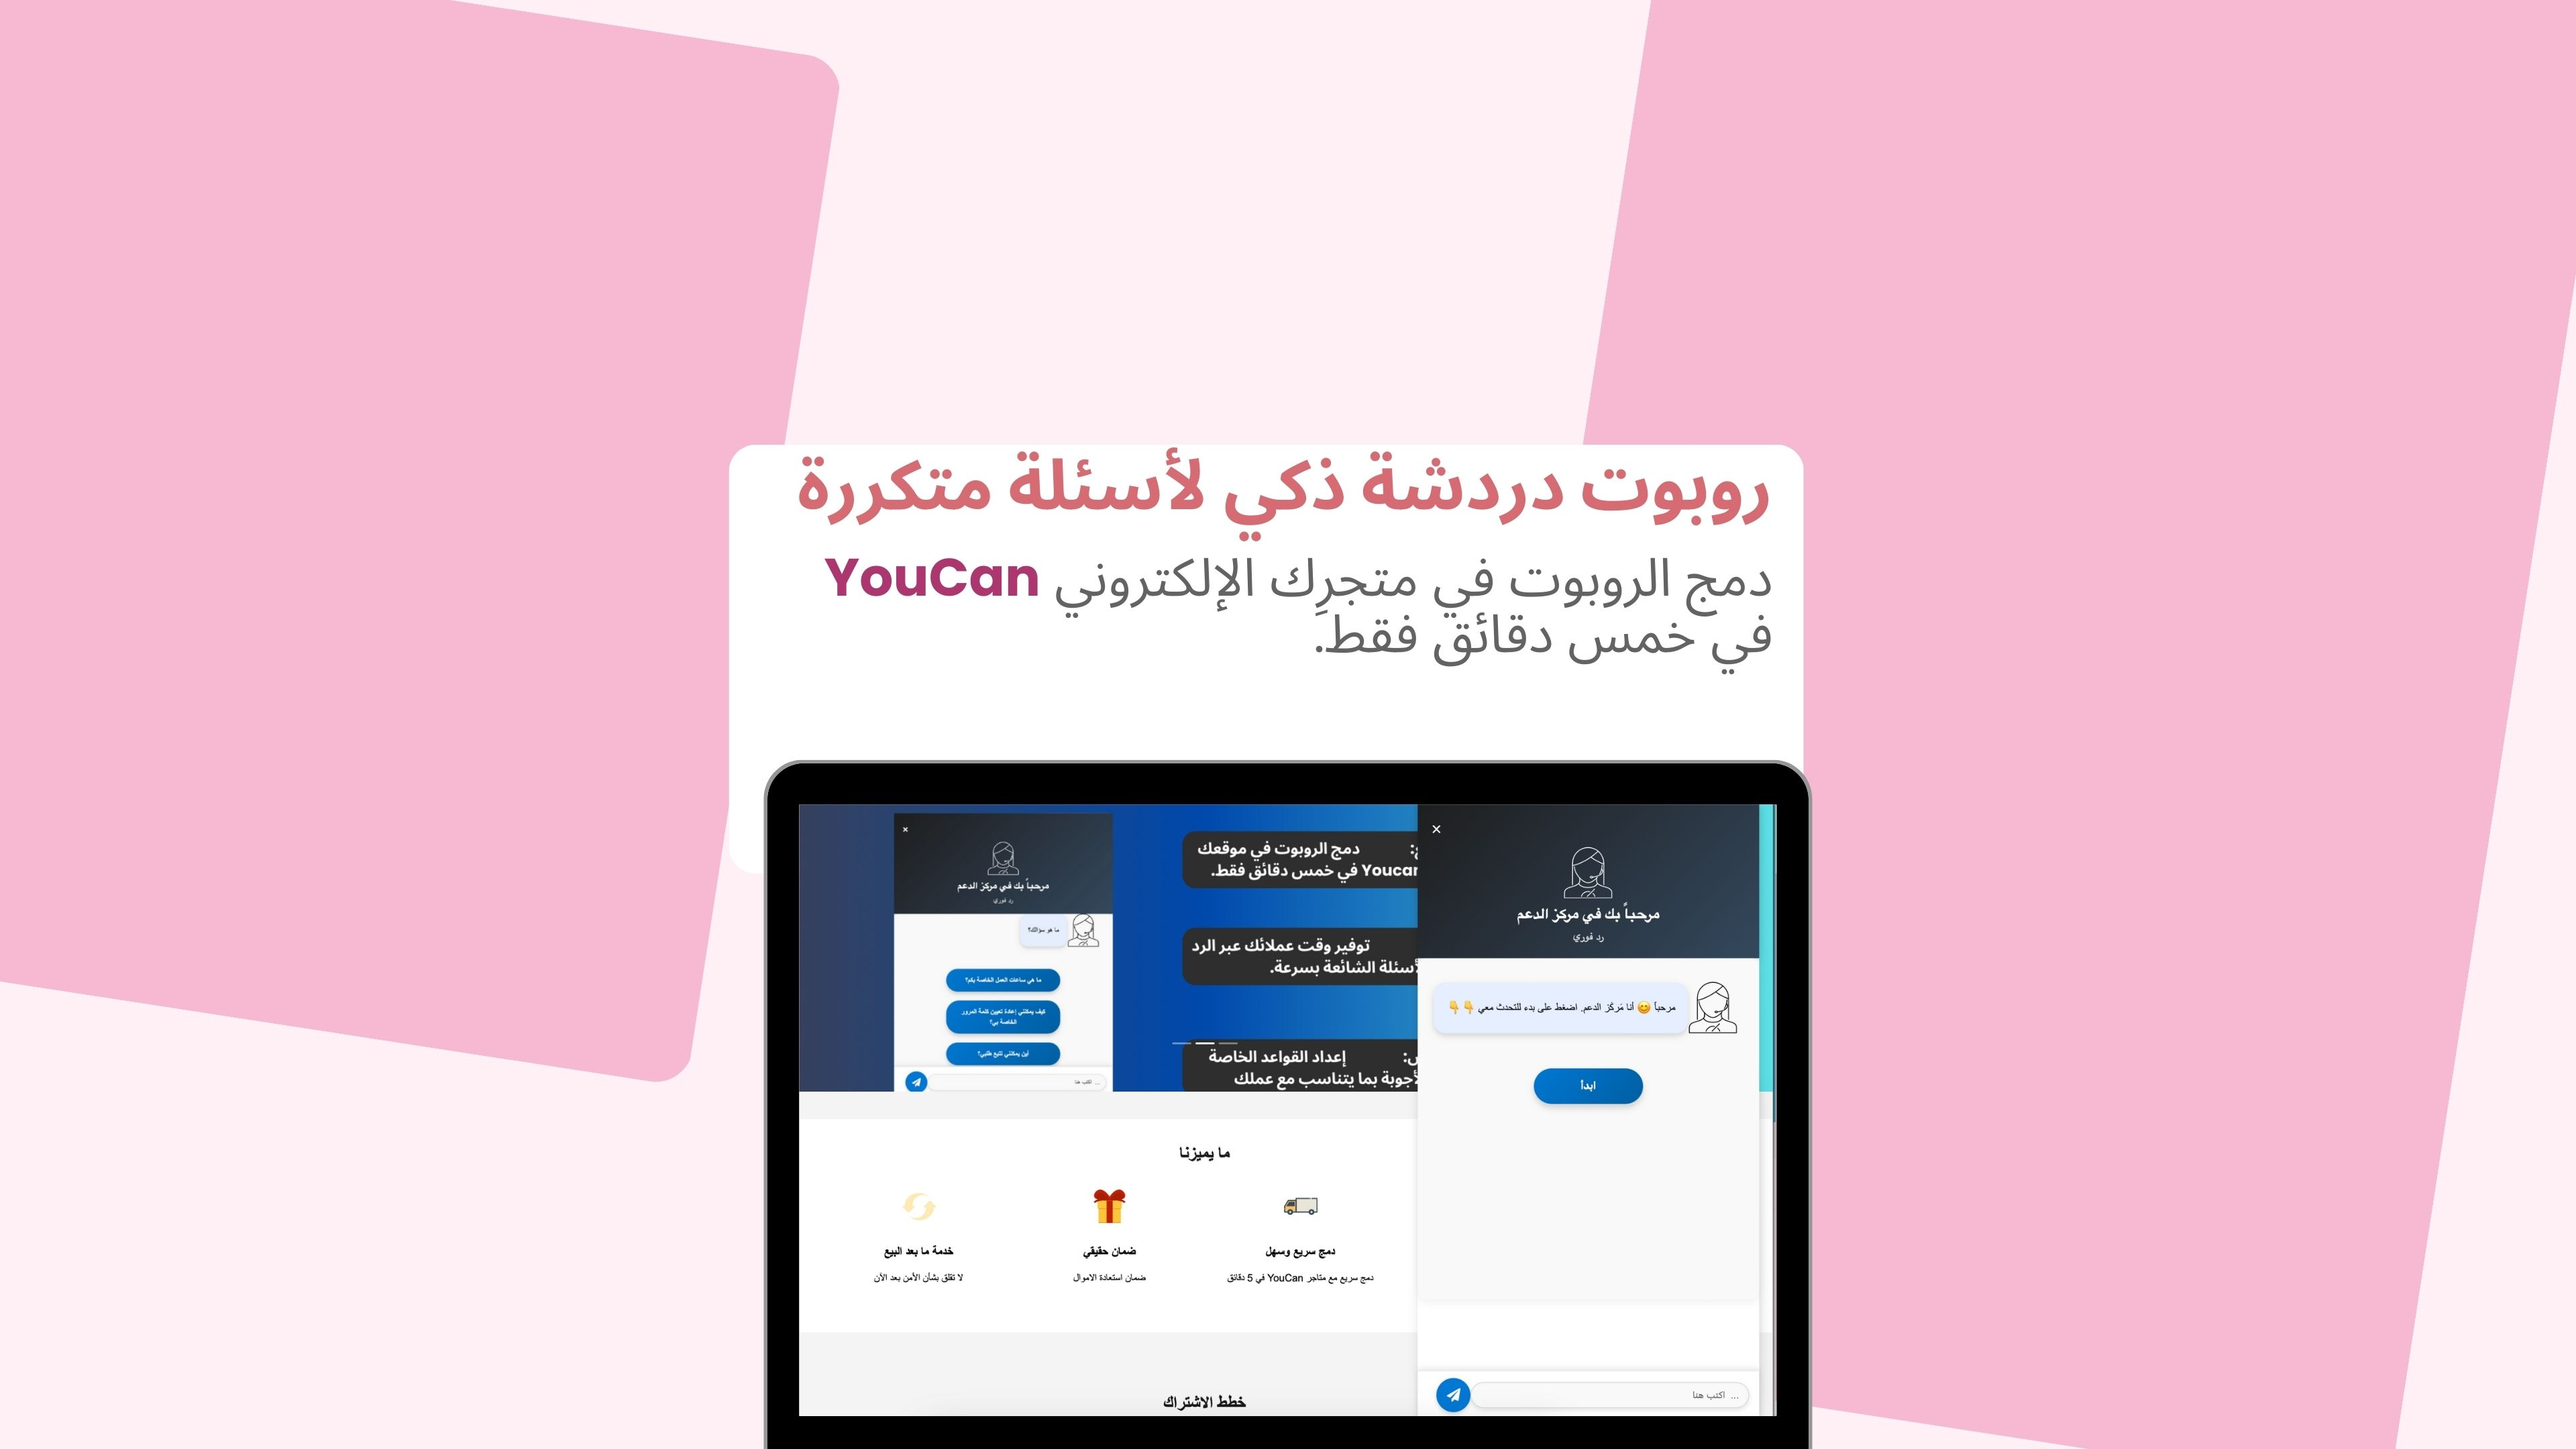
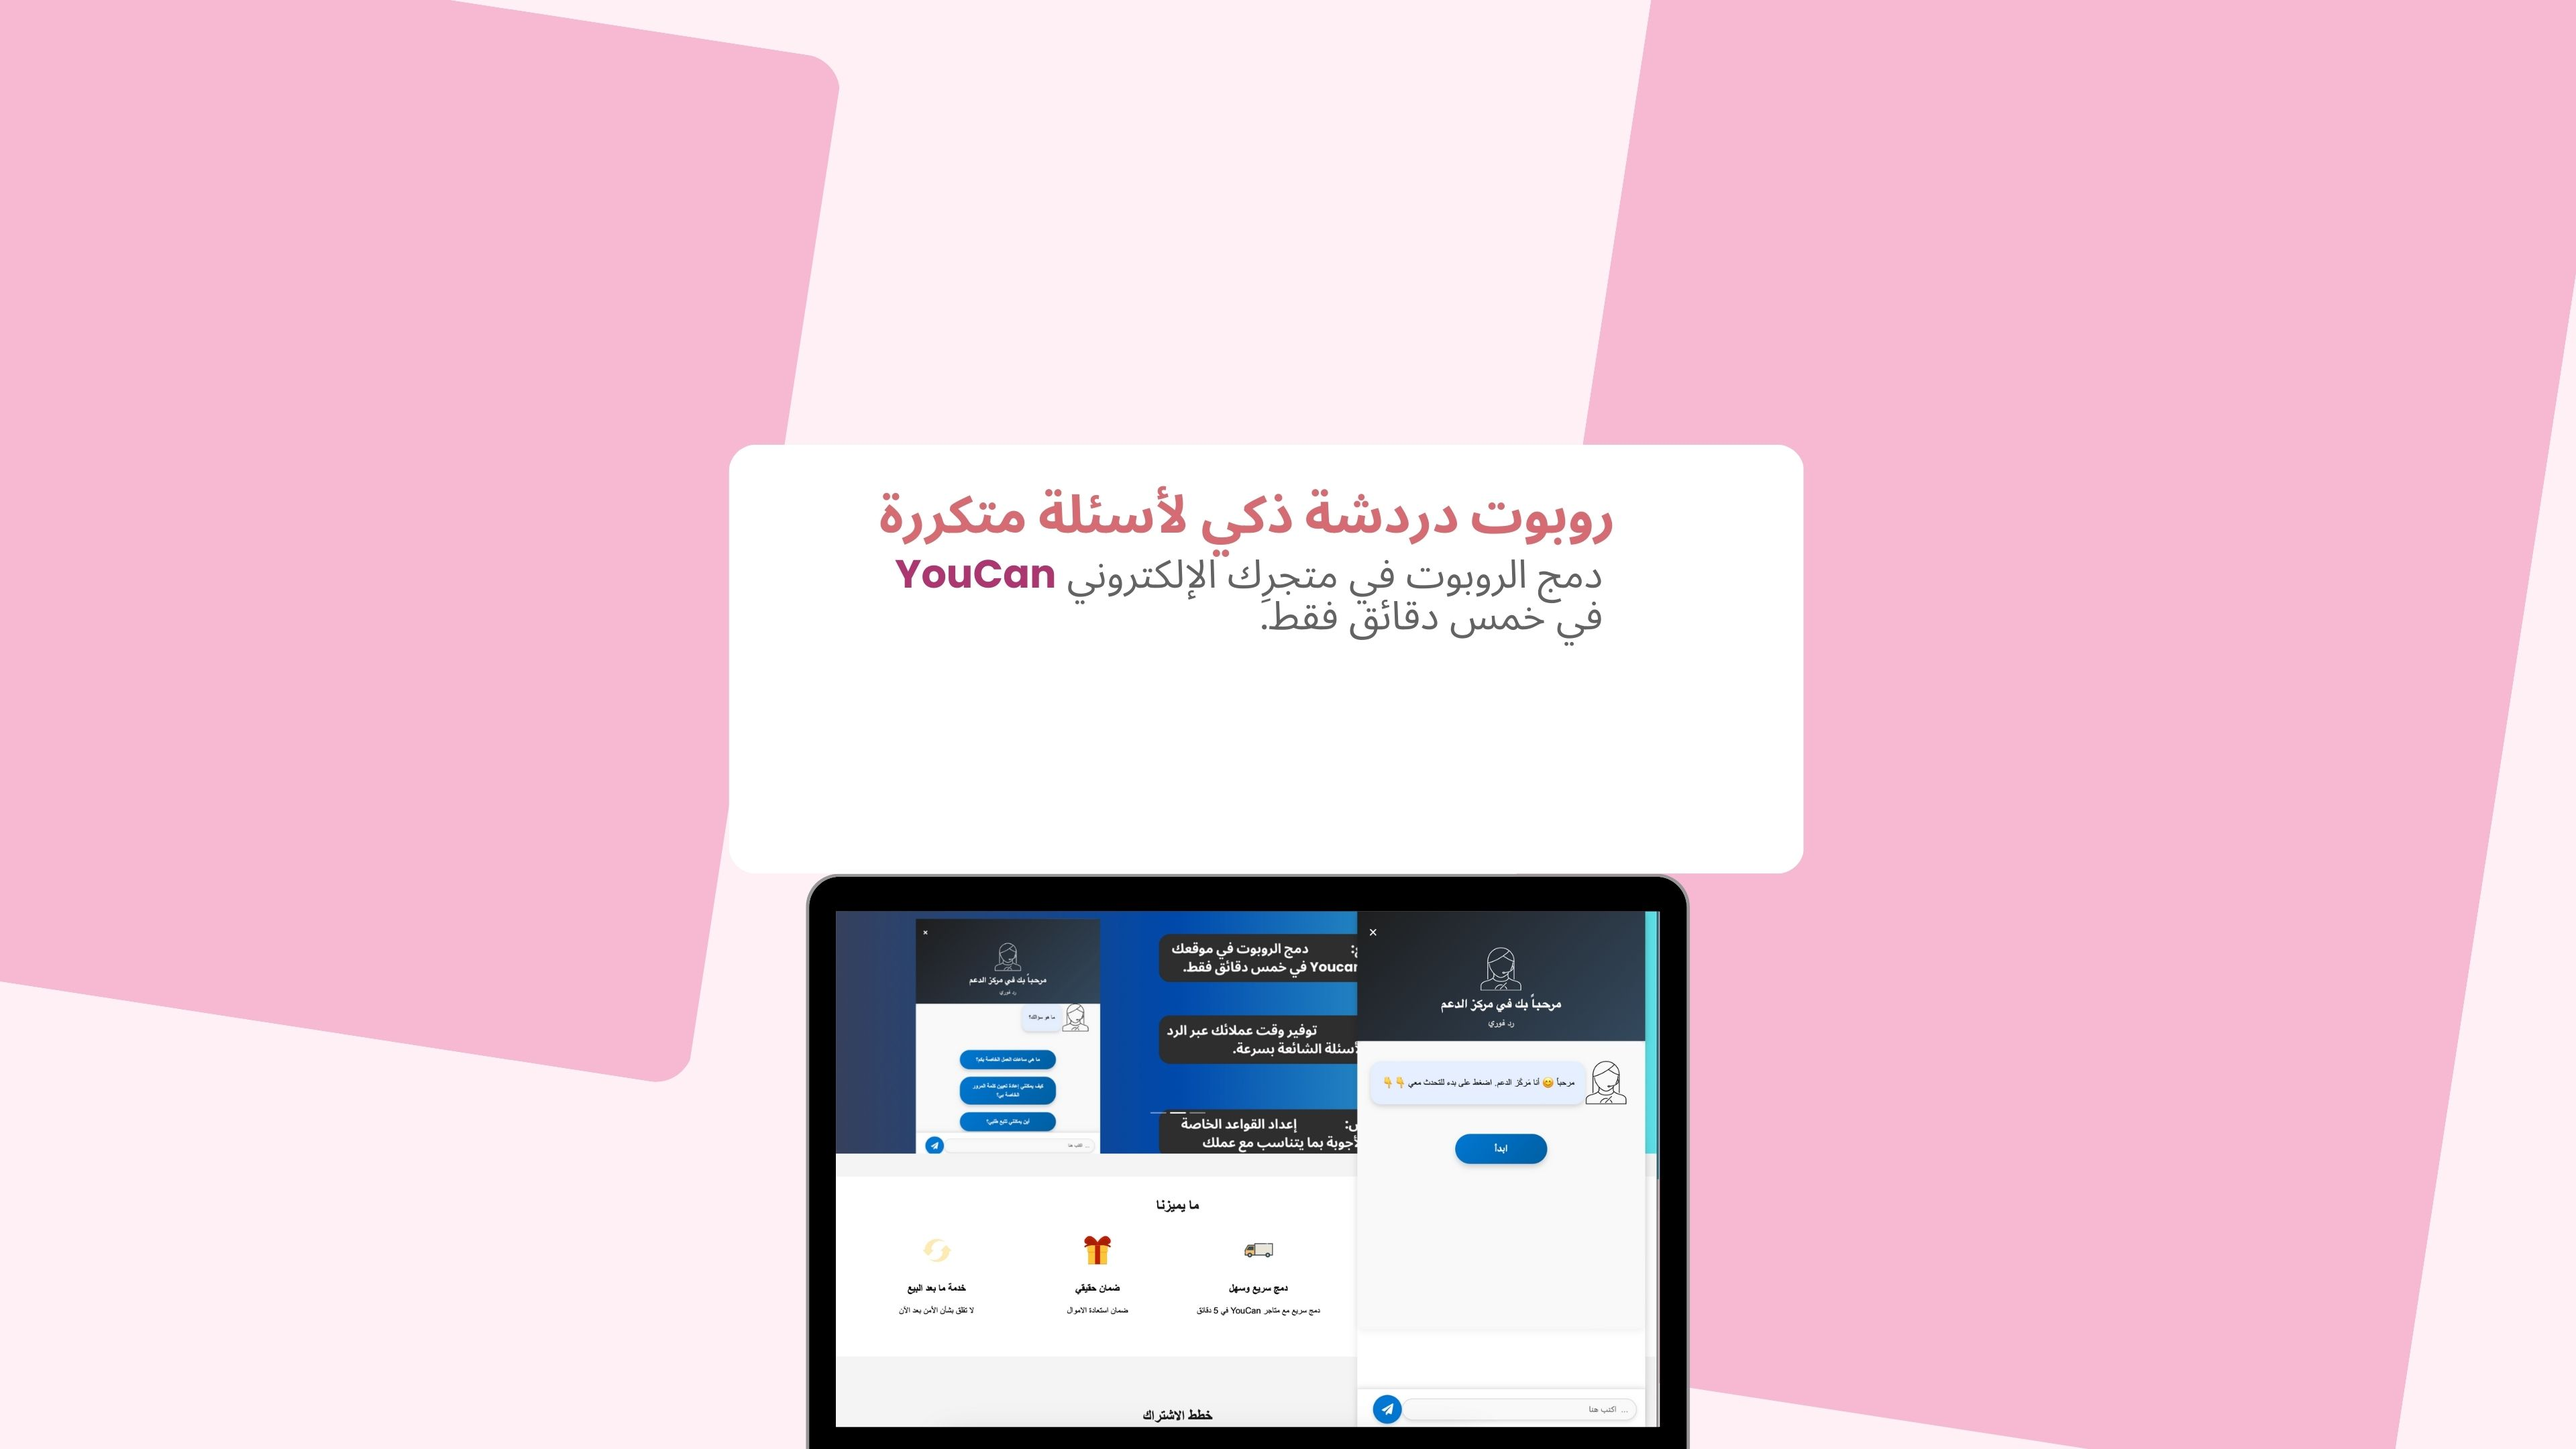
go now

Changed region(s): [[0.2812, 0.5273, 0.7188, 1.0], [0.3125, 0.3102, 0.6875, 0.4653], [0.4688, 0.8375, 0.5, 0.8995]]

diff --git a/index.html b/index.html
@@ -10,74 +10,13 @@
   <meta property="og:title" content="Youcanbot - Your Customizable FAQ Chatbot For Youcan">
   <meta property="og:description" content="Boost your customer experience with a customizable FAQ chatbot. Start with a free trial, then subscribe for only 30 DH/month.">
   <meta property="og:image" content="images/youcanbot-icon.png">
-  <meta property="og:url" content="https://www.youcanbot.com">
+  <meta property="og:url" content="https://www.youcanbot.missingapps.com">
   <title>Youcanbot - FAQ Chatbot for Youcan Stores</title>
   <link rel="stylesheet" href="styles.css">
   <link rel="icon" href="./images/youcanbot-icon.png" type="image/x-icon">
   <link href="https://fonts.googleapis.com/css2?family=Poppins:wght@400;600&display=swap" rel="stylesheet">
   <link href="https://fonts.googleapis.com/css2?family=Poppins:wght@400;600&display=swap" rel="stylesheet">
   <link href="https://cdnjs.cloudflare.com/ajax/libs/font-awesome/6.0.0/css/all.min.css" rel="stylesheet">
-
-  <script type="module">
-    import ChatbotLibrary from 'https://unpkg.com/youcan-chatbot-test@1.1.1/dist/chatbot-library.js';
-
-    // Initialize the chatbot
-    ChatbotLibrary.initializeYoucanChatbot({
-      templateName: 'FAQYoucanChatbot',
-      email: 'your-email@example.com',
-      templateProps : {
-          initialMessageText: "مرحباً 😊 أنا مَركَز الدعم. اضغط على بدء للتحدث معي 👇👇",
-          botName: "مساعد الدعم",
-          placeholderText: "...  اكتب هنا",
-          headerText: "مرحباً بك في مركز الدعم",
-          title:"رد فوري",
-          faqData: [
-              {
-                  question: "؟Youcanbot ما هو",
-                  answer: "يوكانبوت هو روبوت دردشة مخصص لأسئلة متكررة يمكن دمجه بسهولة في متاجر يوكان الإلكترونية. يساعد عملائك على الحصول على إجابات سريعة لأسئلتهم دون الحاجة للتفاعل مع موظفي الدعم."
-              },
-              {
-                  question: "؟Youcanbot كيف يمكنني الاشتراك",
-                  answer: "يمكنك الاشتراك في يوكانبوت من خلال اختيار خطة الاشتراك الشهرية أو السنوية، ومن ثم إتمام عملية الدفع عبر PayPal. بعد ذلك، ستتلقى رمز وصول سري عبر البريد الإلكتروني."
-              },
-              {
-                  question: "؟Youcanbot هل يمكنني تخصيص الأسئلة والأجوبة",
-                  answer: "نعم، يمكنك تخصيص الأسئلة والأجوبة في يوكانبوت لتتناسب مع احتياجات متجرك وطلبات عملائك."
-              },
-              {
-                  question: "؟Youcanbot هل هناك فترة تجريبية مجانية",
-                  answer: "نعم، نحن نقدم فترة تجريبية مجانية لمدة 3 أيام لتجربة جميع الميزات قبل الاشتراك."
-              },
-              {
-                  question: "؟Youcanbot كيف يمكنني دمج يوكانبوت في متجري",
-                  answer: "يمكنك دمج يوكانبوت في متجرك عبر إضافة بضع أسطر من الكود إلى موقعك الإلكتروني. ونحن نقدم تعليمات مفصلة وفيديو توجيهي لشرح كيفية القيام بذلك."
-              },
-              {
-                  question: "؟Youcanbot هل أحتاج إلى خبرة تقنية لدمج يوكانبوت في متجري",
-                  answer: "لا، يوكانبوت سهل الاستخدام ويمكن دمجه في متجرك دون الحاجة لأي خبرة تقنية."
-              },
-              {
-                  question: "؟Youcanbot كيف يمكنني التواصل مع الدعم الفني",
-                  answer: "يمكنك التواصل مع فريق الدعم عبر البريد الإلكتروني أو من خلال منصة الدردشة المباشرة على موقعنا لمساعدتك في أي مشاكل قد تواجهك."
-              },
-              {
-                  question: "؟Youcanbot ماذا يحدث بعد انتهاء الاشتراك",
-                  answer: "قبل انتهاء اشتراكك بـ 5 أيام، سنرسل لك إشعارًا لتجديد الاشتراك. يمكنك أيضًا إلغاء الاشتراك في أي وقت."
-              },
-              {
-                  question: "؟Youcanbot هل يمكنني تغيير خطة الاشتراك",
-                  answer: "نعم، يمكنك تغيير خطتك في أي وقت. إذا كنت ترغب في الانتقال من الخطة الشهرية إلى الخطة السنوية أو العكس، يمكنك القيام بذلك بسهولة."
-              },
-              {
-                  question: "؟Youcanbot ما هي طرق الدفع المتاحة",
-                  answer: "نقبل الدفع عبر PayPal فقط في الوقت الحالي. بعد إتمام الدفع، سيتم إرسال رمز الوصول إلى بريدك الإلكتروني."
-              }
-          ]
-      }
-    });
-
-  </script>
-
 </head>
 
 <body>
